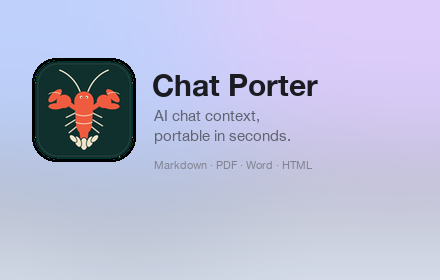
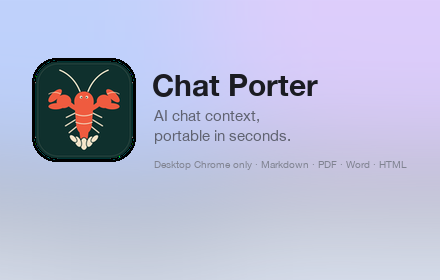
Mark Chat Porter as desktop Chrome only

Changed region(s): [[0.3545, 0.5714, 0.9159, 0.6286]]

diff --git a/index.html b/index.html
@@ -30,6 +30,7 @@
   h1 { font-size: 48px; line-height: 1.08; letter-spacing: -.04em; margin: 12px 0 14px; }
   .lead { font-size: 18px; color: var(--muted); max-width: 620px; margin: 0 0 26px; }
   .shot { width: 100%; height: auto; display: block; border-radius: 12px; border: 1px solid var(--line); margin: 28px 0 8px; box-shadow: 0 12px 30px rgba(20, 30, 60, .12); }
+  .desktop-note { display: inline-block; font-size: 11px; font-weight: 600; color: var(--muted); background: var(--surface); border: 1px solid var(--line); border-radius: 99px; padding: 5px 10px; margin: 0 0 8px; }
   .cta { display: inline-block; background: var(--accent); color: #fff; text-decoration: none; font-weight: 650; padding: 11px 18px; border-radius: 9px; }
   .soon { display: inline-block; margin-left: 10px; color: var(--muted); font-size: 13px; }
   h2 { font-size: 20px; letter-spacing: -.02em; margin: 42px 0 10px; }
@@ -50,7 +51,8 @@
 <main>
   <div class="brand">Chat Porter</div>
   <h1>Export the chat.<br>Keep the context.</h1>
-  <p class="lead">A Chrome extension that turns ChatGPT, Claude, Gemini, DeepSeek and Grok conversations into clean Markdown, PDF, Word, HTML or JSON — or a compact context pack you can paste into another AI.</p>
+  <p class="lead">A desktop Chrome extension that turns ChatGPT, Claude, Gemini, DeepSeek and Grok conversations into clean Markdown, PDF, Word, HTML or JSON — or a compact context pack you can paste into another AI.</p>
+  <p class="desktop-note">Desktop Chrome only (Windows, macOS, Linux, ChromeOS) · not available on Android or iOS</p>
   <a class="cta" href="https://chromewebstore.google.com/" rel="noopener">Chrome Web Store</a>
   <span class="soon">Listing coming soon · replace this link after approval</span>
 

diff --git a/support.html b/support.html
@@ -46,6 +46,7 @@
   <h2>Common questions</h2>
   <p><strong>Does Chat Porter send my chats anywhere?</strong><br>No. Parsing and export happen locally; there are no servers, analytics, or accounts.</p>
   <p><strong>Why are attachments links instead of attached files?</strong><br>The extension preserves the original file name, type, and download link. It does not fetch the binary file from the AI service.</p>
+  <p><strong>Does it work on my phone?</strong><br>No. Chrome extensions only run on desktop Chrome (Windows, macOS, Linux) and ChromeOS. Chat Porter is not available on Chrome for Android or iOS.</p>
   <p><strong>Why is “Include Thinking / Reasoning” disabled?</strong><br>The page did not expose any reasoning blocks in its DOM, or they are still collapsed. Expand them on the site and reopen the panel.</p>
   <p><strong>Why does Chrome show an “Unpacked extension” badge?</strong><br>That is Chrome’s own indicator for locally loaded extensions. It disappears when the extension is installed from the Chrome Web Store.</p>
 

diff --git a/README.md b/README.md
@@ -1,6 +1,6 @@
 # Chat Porter
 
-**Export ChatGPT, Claude, Gemini, DeepSeek, and Grok conversations as Markdown, PDF, Word, HTML, JSON, or plain text — or copy compact context to continue in another AI.**
+**Export ChatGPT, Claude, Gemini, DeepSeek, and Grok conversations as Markdown, PDF, Word, HTML, JSON, or plain text — or copy compact context to continue in another AI. Desktop Chrome only.**
 
 [Website](https://tanaybpatel.github.io/porter/) · [Privacy](https://tanaybpatel.github.io/porter/privacy.html) · [Support](https://tanaybpatel.github.io/porter/support.html) · [Uninstall feedback](https://forms.gle/iT4ms5Rx5WYvEFa57)
 
@@ -10,7 +10,7 @@
 
 ## What it does
 
-Chat Porter is a Chrome extension for exporting AI chat conversations without sending anything to a server.
+Chat Porter is a desktop Chrome extension for exporting AI chat conversations without sending anything to a server. It runs on Windows, macOS, Linux, and ChromeOS — not on Chrome for Android or iOS.
 
 - **Context mode** — a compact hand-off pack for continuing the conversation in another AI. Older turns are condensed; the latest exchange stays in detail.
 - **Export mode** — review every message, tick exactly what you want, and download Markdown, PDF, Word, HTML, JSON, or plain text.
